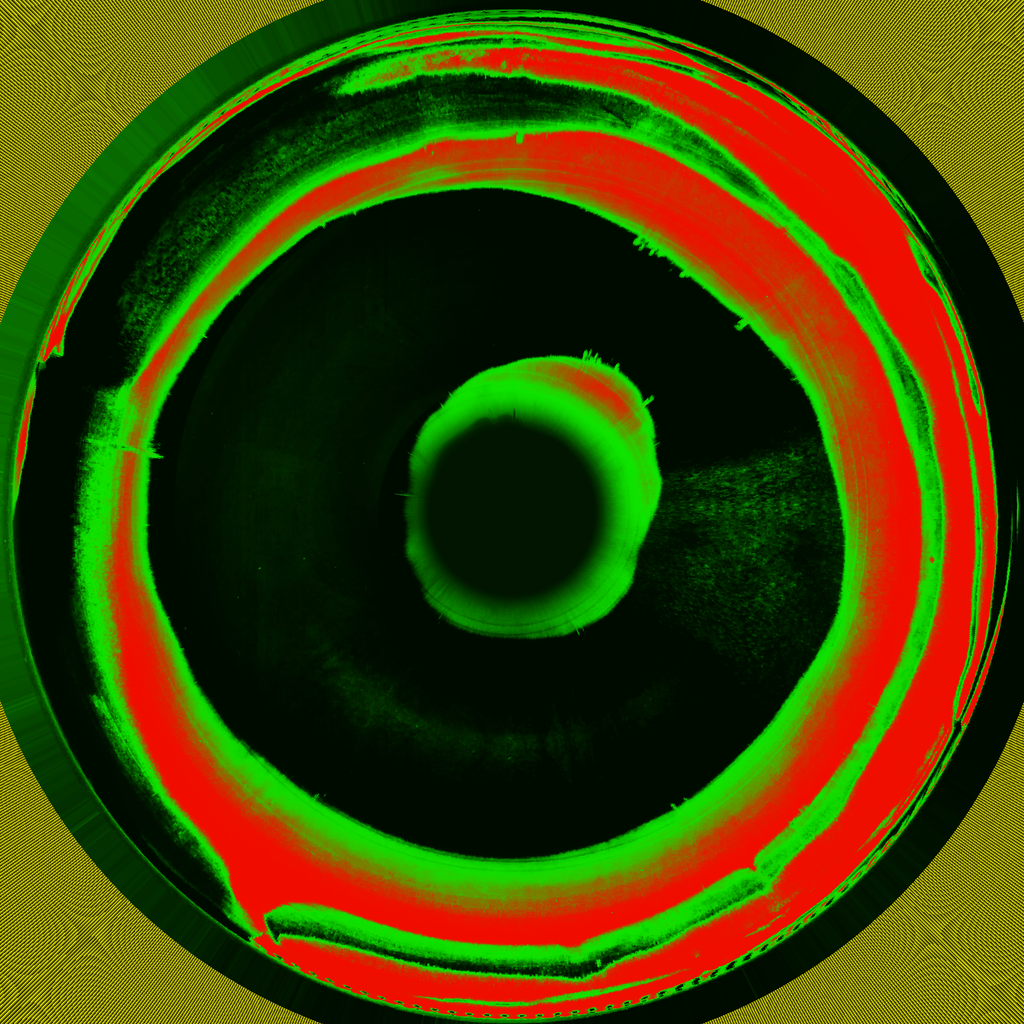
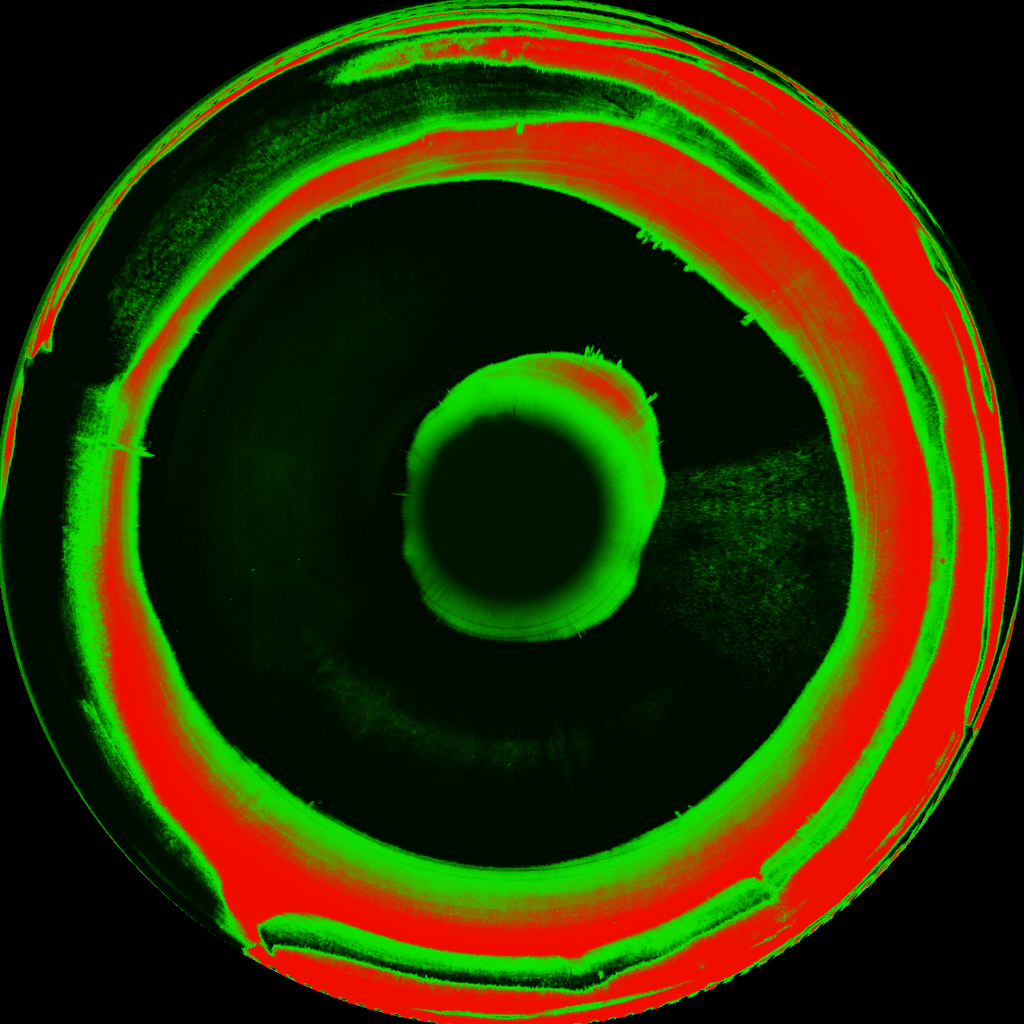
feat: bake the first batch of 11 vinyl pattern masks
Add splatter-04/05/08, starburst-04/06, blob-01, pinwheel-02 and
ripple-01 next to the first three. The baker now crops each master's
outer rim (default 97.5% of the radius, 92% for pinwheel-02) instead of
showing the photographed rim reflection, removes the faint wash some
masters carry, blanks the corners outside the disc, and records crop,
floor and a draft/review status per mask in the manifest. Liquid vinyl
(liquidFilled) is left out until it gets its own material.

diff --git a/tools/bake-vinyl-masks.py b/tools/bake-vinyl-masks.py
@@ -20,12 +20,26 @@ from PIL import Image
 ROOT = Path(__file__).resolve().parent.parent
 OUT = ROOT / 'vinyl-masks'
 
-# Curated sets and their role. Roles come from inspection, not from the folder prefix:
+# Curated sets. Roles come from inspection, not from the folder prefix:
 # layout = colour regions on the base, effect = overlay on top of the base.
+# crop: fraction of the master's disc radius kept; the rest is cut off and the pattern scaled up to fill
+#   the disc, because the masters carry the photographed rim's reflection as a thin accent ring and
+#   ragged shapes near it. Default CROP.
+# floor: subtract each channel's 5th-percentile haze, so a faint wash does not tint the whole disc.
+# status: draft = usable, review = shape may still carry lighting from the master.
+CROP = 0.975
 CURATED = {
-    'splatter-07': 'effect',
-    'blob-03': 'layout',
-    'swirl-02': 'layout',
+    'splatter-04': {'role': 'effect'},
+    'splatter-05': {'role': 'effect', 'floor': True},
+    'splatter-07': {'role': 'effect'},
+    'splatter-08': {'role': 'effect', 'floor': True},
+    'starburst-04': {'role': 'effect', 'status': 'review'},
+    'starburst-06': {'role': 'effect'},
+    'blob-01': {'role': 'layout'},
+    'blob-03': {'role': 'layout'},
+    'pinwheel-02': {'role': 'layout', 'crop': 0.92},
+    'ripple-01': {'role': 'layout', 'status': 'review'},
+    'swirl-02': {'role': 'layout', 'status': 'review'},
 }
 
 # meta.disc_frac is the disc diameter as a fraction of the master's width. The masters extend the
@@ -39,12 +53,30 @@ def bake(src_dir: Path, mask_id: str, size: int):
     n = layers.width
     if layers.height != n:
         raise ValueError(f'{mask_id}: layers.png is not square ({layers.size})')
-    frac = float(meta['disc_frac']) - SEAM_INSET
+    cfg = CURATED[mask_id]
+    crop = cfg.get('crop', CROP)
+    frac = float(meta['disc_frac']) * crop - SEAM_INSET
     side = n * frac
     box = ((n - side) / 2, (n - side) / 2, (n + side) / 2, (n + side) / 2)
     img = layers.resize((size, size), Image.LANCZOS, box=box)
 
-    arr = np.asarray(img)
+    arr = np.asarray(img).astype(np.float32) / 255
+    yy, xx = np.mgrid[:size, :size]
+    r = np.hypot(xx - size / 2 + .5, yy - size / 2 + .5) / (size / 2)
+
+    floors = [0.0, 0.0, 0.0]
+    if cfg.get('floor'):
+        ring = (r > 0.4) & (r < 1)
+        for c in range(3):
+            f = float(np.percentile(arr[..., c][ring], 5))
+            if f > 0.005:
+                arr[..., c] = np.clip((arr[..., c] - f) / (1 - f), 0, 1)
+                floors[c] = round(f, 3)
+
+    # Corners outside the disc are never visible; blank them (keeping a filtering margin) to shrink the PNG.
+    arr[r > 1.01] = 0
+    arr = np.round(arr * 255).astype(np.uint8)
+    img = Image.fromarray(arr)
     channels = [c for c in range(3) if arr[..., c].max() > 8]
     if not channels:
         raise ValueError(f'{mask_id}: every layers.png channel is empty')
@@ -58,7 +90,7 @@ def bake(src_dir: Path, mask_id: str, size: int):
     return {
         'id': mask_id,
         'family': mask_id.rsplit('-', 1)[0],
-        'role': CURATED[mask_id],
+        'role': cfg['role'],
         'file': f'{mask_id}.png',
         'size': size,
         'accents': len(channels),
@@ -67,7 +99,8 @@ def bake(src_dir: Path, mask_id: str, size: int):
         'colors': colors[1:1 + len(channels)],
         'labelRadius': meta.get('label_radius'),
         'source': {'kind': 'generated', 'master': f'VinylLab/assets/masks/{mask_id}', 'file': meta.get('source')},
-        'status': 'draft',
+        'status': cfg.get('status', 'draft'),
+        'bake': {'crop': crop, 'floor': floors},
     }
 
 
@@ -124,7 +157,8 @@ def main():
         if args.preview:
             preview(mask_id, entries[mask_id], args.preview)
         kb = (OUT / entries[mask_id]['file']).stat().st_size / 1024
-        print(f'{mask_id}: {entries[mask_id]["role"]}, {entries[mask_id]["accents"]} accent(s), {kb:.0f} KB')
+        e = entries[mask_id]
+        print(f'{mask_id}: {e["role"]}, {e["accents"]} accent(s), floor {e["bake"]["floor"]}, {e["status"]}, {kb:.0f} KB')
 
     masks = [entries[k] for k in sorted(entries) if (OUT / entries[k]['file']).exists()]
     manifest_path.write_text(json.dumps({'version': 1, 'masks': masks}, ensure_ascii=False, indent=2) + '\n')
